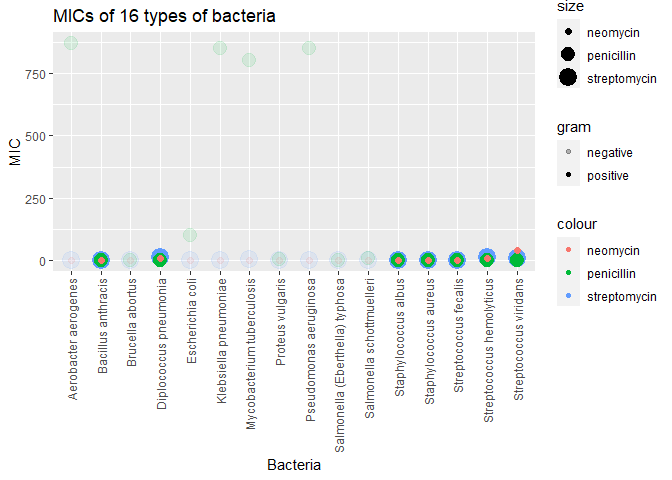
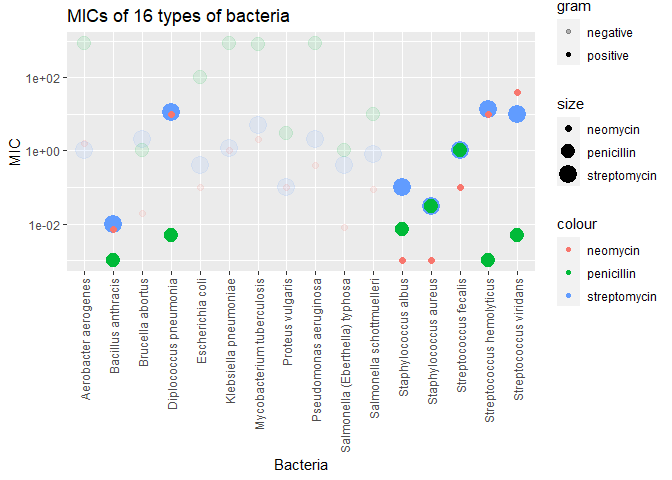
resubmit challenge 5

diff --git a/challenges/c05-antibiotics-assignment.md b/challenges/c05-antibiotics-assignment.md
@@ -57,18 +57,38 @@ for more information.
 library(tidyverse)
 ```
 
-    ## ── Attaching packages ─────────────────────────────────────── tidyverse 1.3.2 ──
-    ## ✔ ggplot2 3.3.6     ✔ purrr   0.3.4
-    ## ✔ tibble  3.1.8     ✔ dplyr   1.0.9
-    ## ✔ tidyr   1.2.0     ✔ stringr 1.4.0
-    ## ✔ readr   2.1.2     ✔ forcats 0.5.1
+    ## Warning: package 'tidyverse' was built under R version 4.2.3
+
+    ## Warning: package 'ggplot2' was built under R version 4.2.3
+
+    ## Warning: package 'stringr' was built under R version 4.2.3
+
+    ## Warning: package 'forcats' was built under R version 4.2.3
+
+    ## ── Attaching core tidyverse packages ──────────────────────── tidyverse 2.0.0 ──
+    ## ✔ dplyr     1.0.9     ✔ readr     2.1.2
+    ## ✔ forcats   1.0.0     ✔ stringr   1.5.0
+    ## ✔ ggplot2   3.4.2     ✔ tibble    3.1.8
+    ## ✔ lubridate 1.8.0     ✔ tidyr     1.2.0
+    ## ✔ purrr     0.3.4     
     ## ── Conflicts ────────────────────────────────────────── tidyverse_conflicts() ──
     ## ✖ dplyr::filter() masks stats::filter()
     ## ✖ dplyr::lag()    masks stats::lag()
+    ## ℹ Use the ]8;;http://conflicted.r-lib.org/conflicted package]8;; to force all conflicts to become errors
 
 ``` r
 library(ggrepel)
+library(ggplot2) 
+library(treemapify)
 ```
+
+    ## Warning: package 'treemapify' was built under R version 4.2.3
+
+``` r
+library(ggplotify)
+```
+
+    ## Warning: package 'ggplotify' was built under R version 4.2.3
 
 *Background*: The data\[1\] we study in this challenge report the
 [*minimum inhibitory
@@ -161,6 +181,7 @@ df_antibiotics %>%
   geom_point(aes(y = neomycin, color = "neomycin", size = "neomycin", alpha = gram)) +
   ylab("MIC") +
   xlab("Bacteria") +
+  scale_y_log10() + 
   guides(x =  guide_axis(angle = 90)) +
   ggtitle("MICs of 16 types of bacteria")
 ```
@@ -189,10 +210,10 @@ p1 <-  ggplot() +
       x = bacteria, 
       y = penicillin, 
       color = gram
-    ), fill = "darkred") +
-  guides(x =  guide_axis(angle = 90)) +
+    ), fill = "orange") +
   ylab("MIC") +
   xlab(" ") +
+  scale_y_log10() +
   guides(x =  guide_axis(angle = 90)) +
   ggtitle("MICs of penicillin")
 
@@ -203,10 +224,10 @@ p2 <- ggplot() +
       x = bacteria, 
       y = streptomycin, 
       color = gram
-    ), fill = "orange") +
-  guides(x =  guide_axis(angle = 90)) +
+    ), fill = "brown") +
   ylab("MIC") +
   xlab(" ") +
+  scale_y_log10() +
   guides(x =  guide_axis(angle = 90)) +
   ggtitle("MICs of streptomycin")
   
@@ -218,9 +239,9 @@ p3 <- ggplot() +
       y = neomycin, 
       color = gram
     ), fill = "navy") +
-  guides(x =  guide_axis(angle = 90)) +
   ylab("MIC") +
   xlab(" ") +
+  scale_y_log10() +
   guides(x =  guide_axis(angle = 90)) +
   ggtitle("MICs of neomycin")
 
@@ -244,9 +265,15 @@ your other visuals.
 ``` r
 # WRITE YOUR CODE HERE
 ggplot(df_antibiotics, aes(x = bacteria)) +
-  geom_bar(aes(y = streptomycin, fill = streptomycin), position="stack", stat="identity") +
+  geom_line(aes(y = streptomycin, group = 1, color = 'Streptomycin'), linetype="dotted") +
+  geom_line(aes(y = penicillin, group = 1, color = 'Penicillin'), linetype="dotted") +
+  geom_line(aes(y = neomycin, group = 1, color = 'Neomycin'), linetype="dotted") +
+  scale_color_manual(
+    name = 'Y series', 
+    values = c('Streptomycin' = 'brown', 'Neomycin' = 'navy', 'Penicillin' = 'orange')) +
   ylab("MIC") +
-  xlab("Bacteria") +
+  xlab("Streptomycin") +
+  scale_y_log10() +
   guides(x =  guide_axis(angle = 90)) +
   ggtitle("Streptomycin MICs of 16 types of bacteria") +
   theme(legend.position="top")
@@ -265,14 +292,40 @@ your other visuals.
 
 ``` r
 # WRITE YOUR CODE HERE
-df_antibiotics %>% 
-  ggplot(aes(x = bacteria, y = penicillin, group = 1)) + 
-  geom_path() +
-  geom_point() +
+ggplot(df_antibiotics, aes(x = reorder(bacteria, streptomycin))) +
+  geom_point(aes(y = streptomycin, color = 'Streptomycin')) +
+  geom_segment(
+    aes(
+      xend = reorder(bacteria, streptomycin),
+      y = 1,
+      yend = streptomycin,
+      color = 'Streptomycin')) +
+  
+  geom_point(aes(y = neomycin, color = 'Neomycin')) +
+  geom_segment(
+    aes(
+      xend = reorder(bacteria, streptomycin),
+      y = 1,
+      yend = neomycin,
+      color = 'Neomycin')) +
+  
+  geom_point(aes(y = penicillin, color = 'Penicillin')) +
+  geom_segment(
+    aes(
+      xend = reorder(bacteria, streptomycin),
+      y = 1,
+      yend = penicillin,
+      color = 'Penicillin')) +
+
   ylab("MIC") +
   xlab("Bacteria") +
+  scale_y_log10() +
   guides(x =  guide_axis(angle = 90)) +
-  ggtitle("MICs of 16 types of bacteria") +
+  ggtitle("Streptomycin MICs of 16 types of bacteria") +
+  coord_flip() +
+  scale_color_manual(
+    name = 'Y series', 
+    values = c('Neomycin' = 'navy', 'Penicillin' = 'orange', 'Streptomycin' = 'brown')) +
   theme(legend.position="top")
 ```
 
@@ -290,17 +343,24 @@ your other visuals.
 ``` r
 # WRITE YOUR CODE HERE
 df_antibiotics %>% 
-  ggplot(aes(x = bacteria, y = neomycin, group = 1, color = gram)) + 
-  geom_path() +
-  geom_point(aes(size = gram)) +
+  ggplot(aes(x = reorder(bacteria, neomycin), y = neomycin, color = gram)) + 
+  geom_bar(
+    fill = 'white', 
+    width = 1, 
+    stat = "identity"
+  ) +
   ylab("MIC") +
   xlab("Bacteria") +
   guides(x =  guide_axis(angle = 90)) +
   ggtitle("MICs of 16 types of bacteria") +
-  theme(legend.position="top")
+  scale_y_log10() +
+  coord_flip() +
+  theme(legend.position="top") +
+  coord_polar("y", start=2.175)
 ```
 
-    ## Warning: Using size for a discrete variable is not advised.
+    ## Coordinate system already present. Adding new coordinate system, which will
+    ## replace the existing one.
 
 ![](c05-antibiotics-assignment_files/figure-gfm/q1.5-1.png)<!-- -->
 
@@ -329,18 +389,20 @@ What is your response to the question above?
 
 \- penicillin, streptomycin, neomycin,
 
-- Steptomycin is the most effective in treating against all bacteria
+- Streptomycin is the most effective in treating against all bacteria
   genera as it has the lowest MIC. On the contrary, penicillin is the
   least effective among all.
 
 Which of your visuals above (1 through 5) is **most effective** at
 helping to answer this question?
 
-- Visual No.2.
+- Visual No.4.
 
 Why?
 
-- It shows the scales of MICs of each of the three types of antibiotics.
+- The lollipop plots of the three different antibiotics type are stacked
+  over one another, which makes it very easy to compare and distinguish
+  among their MIC values.
 
 #### Guiding Question 2
 
@@ -355,9 +417,11 @@ and in 1984 *Streptococcus fecalis* was renamed *Enterococcus fecalis*
 
 What is your response to the question above?
 
-- Because Diplococcus pneumoniae has similar reactions comparing to
-  Streptococcus hemolyticus and Streptococcus viridans to all the three
-  antibiotics.
+- We can observe from Visual 4 that *Diplococcus pneumoniae* and
+  *Streptococcus viridans* have similar Streptomycin MICs response,
+  which further indicates that they might have similar biological
+  structures. It’s plausible that the naming of the antibiotics are
+  closely related to their biological structures.
 
 Which of your visuals above (1 through 5) is **most effective** at
 helping to answer this question?
